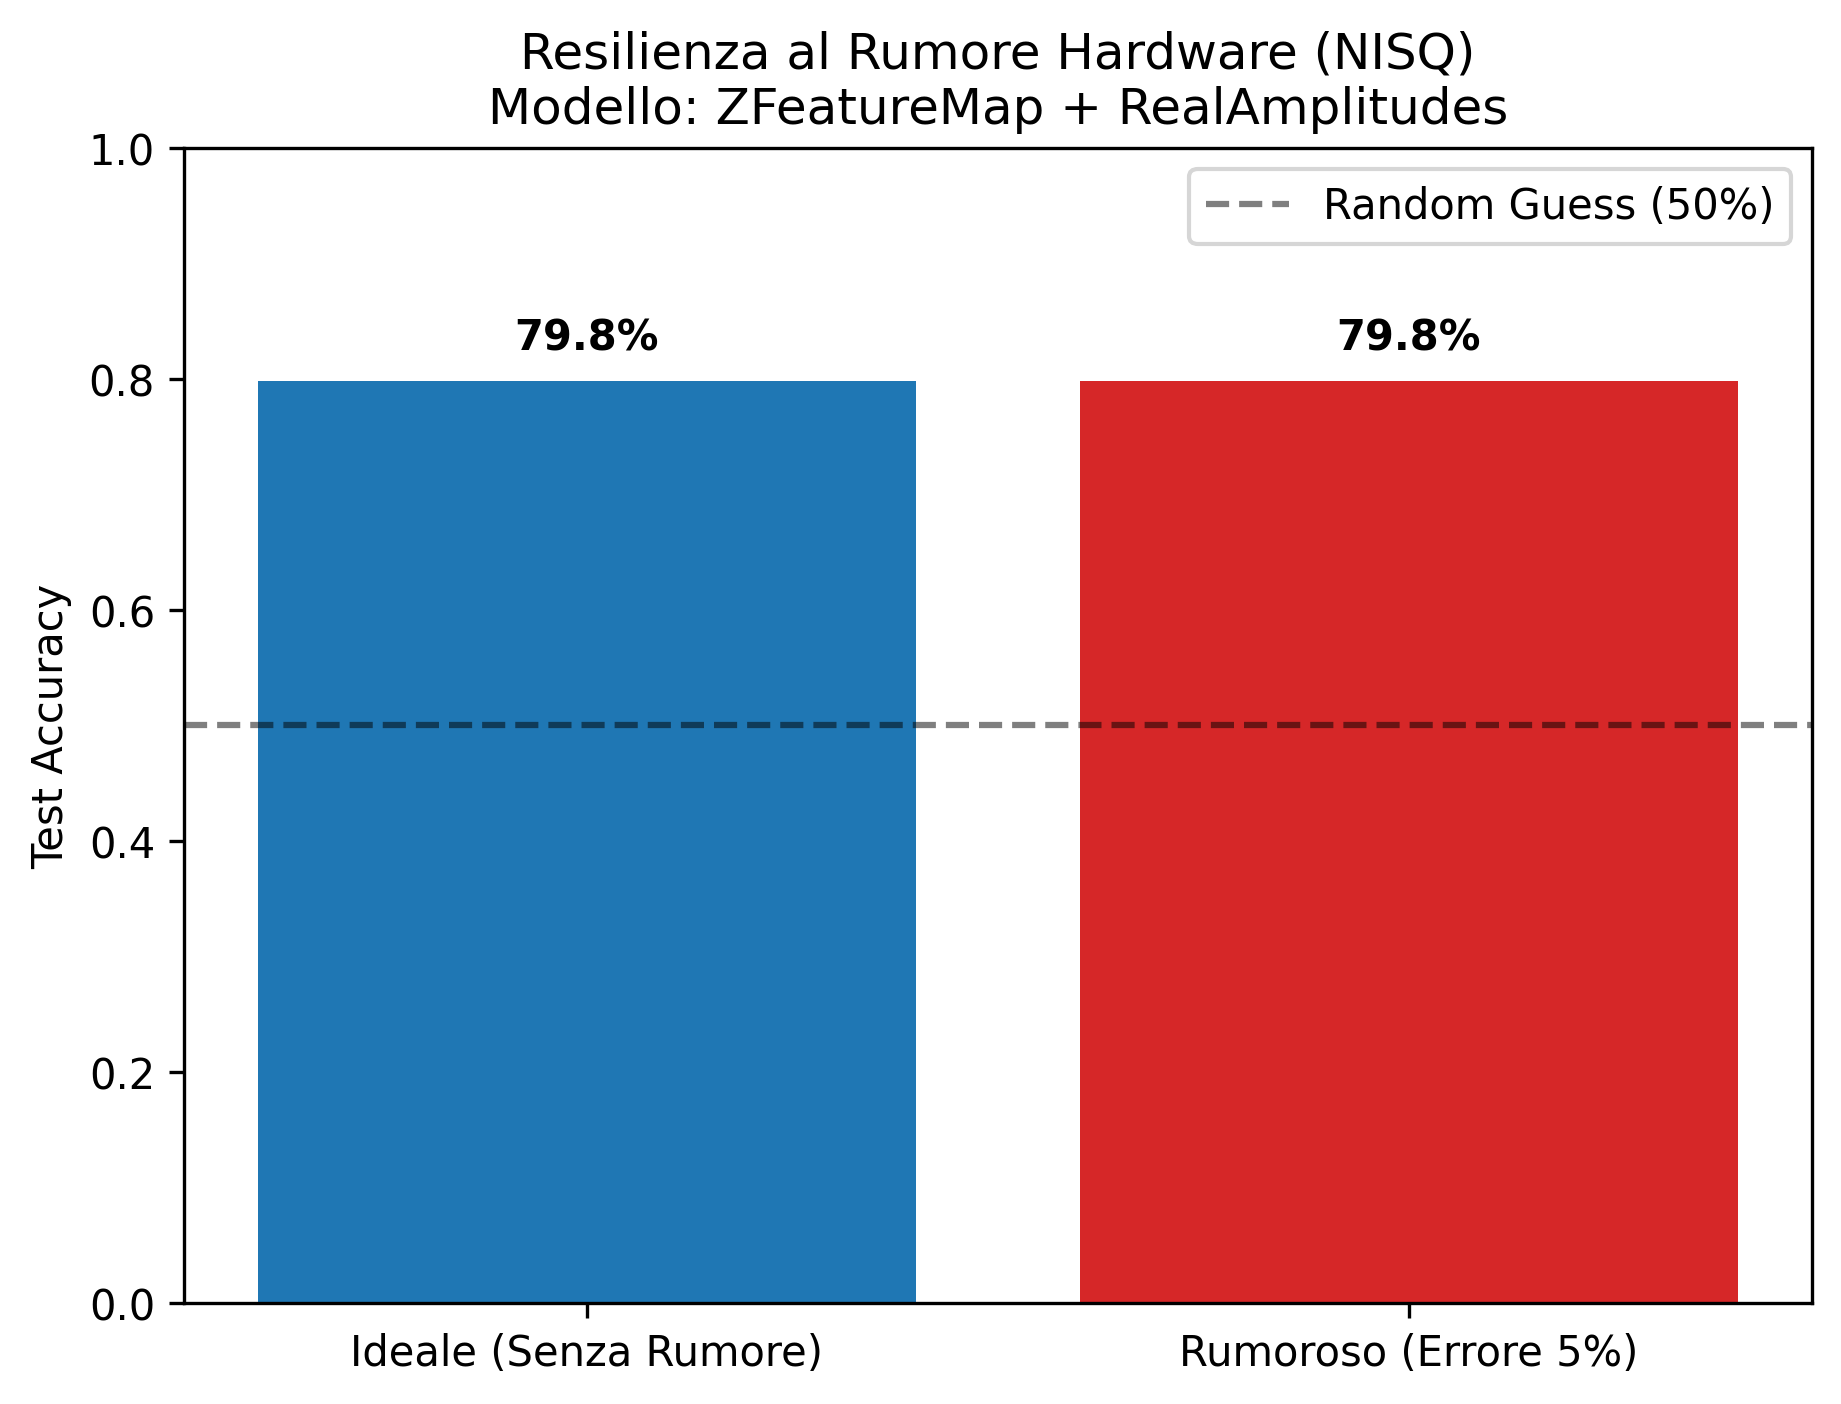
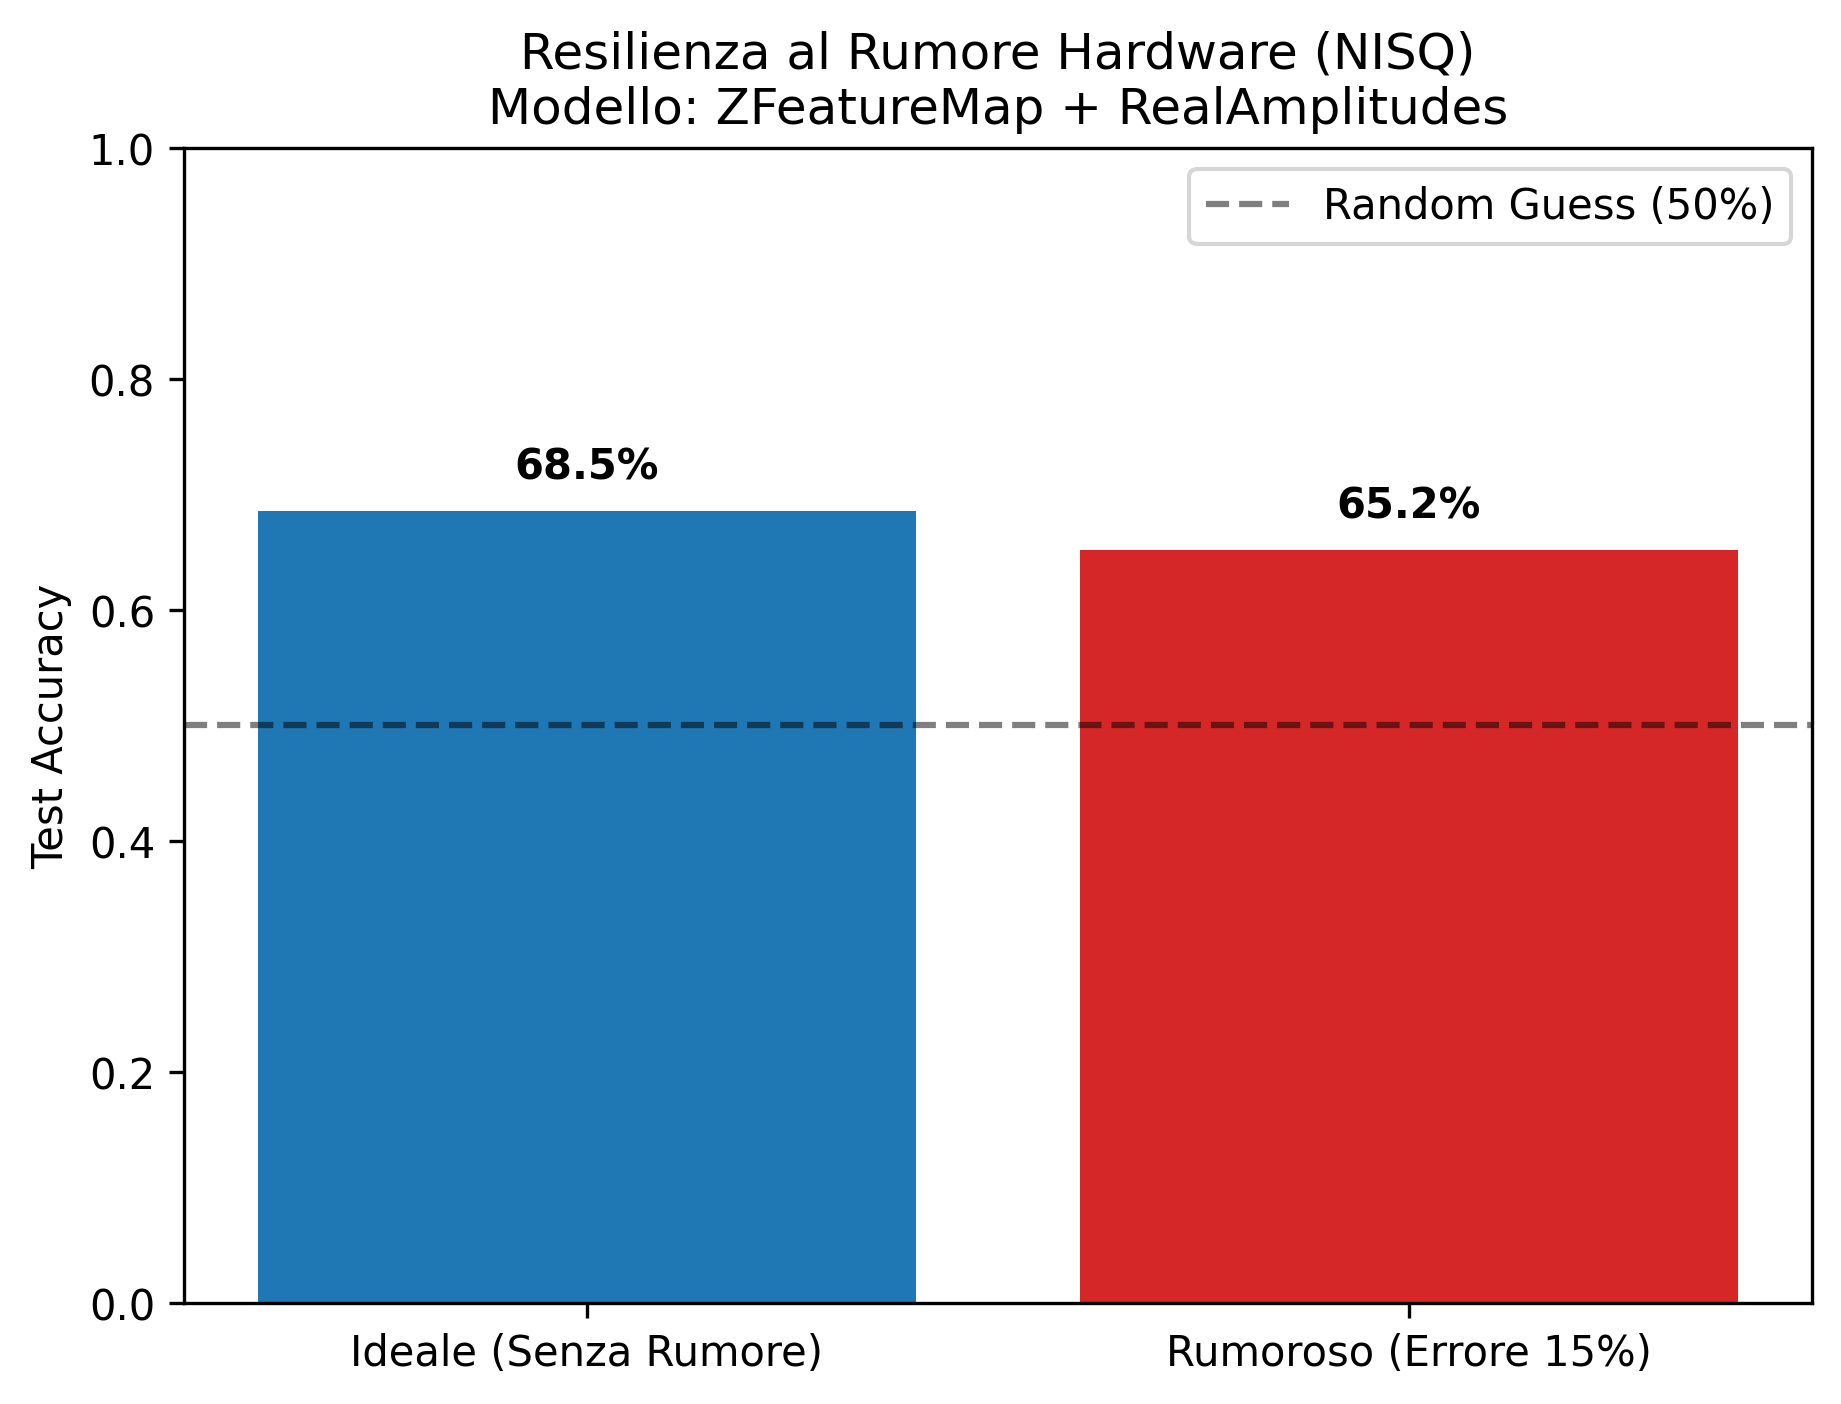
Aggiornata simulazione rumore al 15% per dimostrazione accurata del degrado NISQ

Changed region(s): [[0.5883, 0.2144, 0.9598, 0.3981], [0.1238, 0.2144, 0.4954, 0.3675], [0.6192, 0.9494, 0.8979, 0.9801]]

diff --git a/simulazione_rumore.py b/simulazione_rumore.py
@@ -90,7 +90,7 @@ class QuantumDiabetesClassifier:
             
         return accuracy_score(test_labels, predictions), predictions
 
-    def evaluate_noisy(self, test_data, test_labels, noise_level=0.05):
+    def evaluate_noisy(self, test_data, test_labels, noise_level=0.15):
         print(f"\n[2] Valutazione su Hardware Rumoroso (Errore CX: {noise_level*100}%)...")
         
         # Creazione del modello di rumore quantistico
@@ -146,11 +146,11 @@ if __name__ == "__main__":
     print(f" RISULTATI FINALI (ZFeatureMap + RealAmplitudes)")
     print("="*50)
     print(f" Accuracy Ideale (Simulatore Perfetto): {acc_ideal*100:.2f}%")
-    print(f" Accuracy Reale  (Rumore IBM al 5%):    {acc_noisy*100:.2f}%")
+    print(f" Accuracy Reale  (Rumore IBM al 15%):    {acc_noisy*100:.2f}%")
     
     # PLOT: Grafico a Barre Comparativo
     plt.figure(figsize=(7, 5))
-    bars = plt.bar(['Ideale (Senza Rumore)', 'Rumoroso (Errore 5%)'], [acc_ideal, acc_noisy], color=['#1f77b4', '#d62728'])
+    bars = plt.bar(['Ideale (Senza Rumore)', 'Rumoroso (Errore 15%)'], [acc_ideal, acc_noisy], color=['#1f77b4', '#d62728'])
     plt.ylabel('Test Accuracy')
     plt.title('Resilienza al Rumore Hardware (NISQ)\nModello: ZFeatureMap + RealAmplitudes')
     plt.ylim(0, 1.0)
